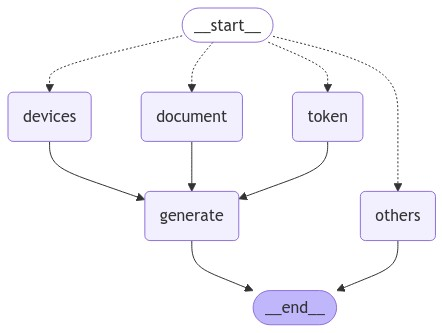
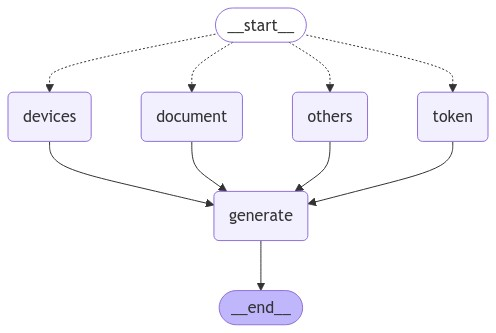
other node

diff --git a/app/ai/graph/nodes/generate.py b/app/ai/graph/nodes/generate.py
@@ -5,14 +5,14 @@ from langchain.prompts import (ChatPromptTemplate,
 from langchain.schema import SystemMessage
 from langchain_core.output_parsers import StrOutputParser
 
-from app.config import CUSTOM_PROMPT_TEMPLATE
+from app.config import CUSTOM_PROMPT
 from ..state import GraphState
 from ...llms import build_llm
 from ...memories import build_memory
 
 prompt = ChatPromptTemplate(
     messages=[
-        SystemMessage(content=CUSTOM_PROMPT_TEMPLATE),
+        SystemMessage(content=CUSTOM_PROMPT),
         MessagesPlaceholder(variable_name="context"),
         HumanMessagePromptTemplate.from_template("{question}")
     ]
@@ -22,9 +22,13 @@ def generate_output_node(state: GraphState) -> Dict[str, Any]:
 
     question = state["question"]
     documents = state["documents"]
+    if len(documents) > 0:
+        context = documents
+    else:
+        context = state["documents_json"]
 
     llm = build_llm(state, True)
     memory = build_memory(state)
-    generation_chain = prompt | llm | StrOutputParser()
-    generation = generation_chain.invoke({"context": documents, "question": question})
-    return {"documents": documents, "question": question, "generation": generation}
+    chain = prompt | llm | StrOutputParser()
+    answer = chain.invoke({"context": context, "question": question})
+    return {"question": question, "answer": answer}

diff --git a/app/ai/graph/nodes/document_node.py b/app/ai/graph/nodes/document_node.py
@@ -1,14 +1,28 @@
 from typing import Any, Dict
 
+from langchain_core.messages import SystemMessage
+from langchain_core.prompts import PromptTemplate, ChatPromptTemplate, MessagesPlaceholder, HumanMessagePromptTemplate
+
+from app.config import CUSTOM_PROMPT
 from app.data.vector import build_retriever
 from ..state import GraphState
+from ...chains import StreamingConversationalRetrievalChain
+from ...llms import build_llm, build_condense_llm
+from ...memories import build_memory
 
-
+prompt = ChatPromptTemplate(
+    messages=[
+        SystemMessage(content=CUSTOM_PROMPT),
+        MessagesPlaceholder(variable_name="chat_history"),
+        MessagesPlaceholder(variable_name="context"),
+        HumanMessagePromptTemplate.from_template("{question}")
+    ]
+)
 def retrieve_document_node(state: GraphState) -> Dict[str, Any]:
     """
     Vector retriever node
     """
-    query = state["question"]
+    question = state["question"]
     retriever = build_retriever()
-    documents = retriever.get_relevant_documents(query)
-    return {"documents": documents, "question": query}
+    documents = retriever.invoke(question)
+    return {"documents": documents}

diff --git a/app/services/conversation.py b/app/services/conversation.py
@@ -14,7 +14,7 @@ messageRepo = ConversationMessageRepo()
 
 def get_messages_by_conversation_id(
     conversation_id: uuid,
-) -> AIMessage | HumanMessage | SystemMessage:
+) -> [AIMessage | HumanMessage | SystemMessage]:
     """
     Finds all messages that belong to the given conversation_id
 
@@ -27,11 +27,11 @@ def get_messages_by_conversation_id(
 
 def get_messages_by_transaction_id(
     txn_id: uuid,
-) -> AIMessage | HumanMessage | SystemMessage:
+) -> [AIMessage | HumanMessage | SystemMessage]:
     """
     Finds all messages that belong to the given transaction_id
 
-    :param transaction_id: The id of the transaction
+    :param txn_id: The id of the transaction
 
     :return: A list of messages
     """
@@ -48,6 +48,7 @@ def add_message_to_conversation(
     :param conversation_id: The id of the conversation
     :param role: The role of the message
     :param content: The content of the message
+    :param transaction_id: The id of the transaction
 
     :return: void
     """

diff --git a/app/ai/graph/nodes/others.py b/app/ai/graph/nodes/others.py
@@ -1,9 +1,24 @@
 
 from typing import Any, Dict
+from langchain_core.messages import SystemMessage
+from langchain_core.prompts import PromptTemplate, ChatPromptTemplate, MessagesPlaceholder, HumanMessagePromptTemplate
+
+from app.config import CUSTOM_PROMPT
+from app.data.vector import build_retriever
 
 from ..state import GraphState
+from ...chains import StreamingConversationalRetrievalChain
+from ...llms import build_llm
+from ...memories import build_memory
 
+prompt = ChatPromptTemplate(
+    messages=[
+        SystemMessage(content=CUSTOM_PROMPT),
+        MessagesPlaceholder(variable_name="chat_history"),
+        MessagesPlaceholder(variable_name="context"),
+        HumanMessagePromptTemplate.from_template("{question}")
+    ]
+)
 
 def other_node(state: GraphState) -> Dict[str, Any]:
-    query = state["question"]
-    return {"documents": [], "question": query}
+    return {"documents": [], "documents_json": ""}

diff --git a/app/ai/graph/nodes/token_node.py b/app/ai/graph/nodes/token_node.py
@@ -1,6 +1,6 @@
 
 import logging
-import uuid
+import json
 from typing import Any, Dict, List
 
 from app.models.token import TotalTokenUsage
@@ -11,7 +11,6 @@ from ..state import GraphState
 
 def token_usage_node(state: GraphState) -> Dict[str, Any]:
     user_id = state["user_id"]
-    query = state["question"]
     logging.info("token_usage_query: User with id %s", user_id)
     documents: List[TotalTokenUsage] = []
     for token in get_user_message_token_usage(user_id):
@@ -22,4 +21,5 @@ def token_usage_node(state: GraphState) -> Dict[str, Any]:
             created_on=token.created_on, user=TokenUser(**token.user.__dict__),
             messages=token.messages
         ))
-    return {"documents": documents, "question": query}
+    document_json = json.dumps(documents)
+    return {"documents_json": document_json}

diff --git a/app/ai/graph/state.py b/app/ai/graph/state.py
@@ -10,13 +10,15 @@ class GraphState(TypedDict):
         user_id: user id
         conversation_id: conversation id
         transaction_id: transaction id
-        question: question
-        generation: LLM generation
+        question: question from user
+        answer: LLM generated answer
         documents: list of documents
+        documents_json: document in json format
     """
     user_id: UUID
     conversation_id: UUID
     transaction_id: UUID
     question: str
-    generation: str
+    answer: str
     documents: List[str]
+    documents_json: str

diff --git a/app/ai/graph/graph.py b/app/ai/graph/graph.py
@@ -47,7 +47,7 @@ workflow.set_conditional_entry_point(
 workflow.add_edge(DOCUMENT, GENERATE)
 workflow.add_edge(TOKEN, GENERATE)
 workflow.add_edge(DEVICES, GENERATE)
+workflow.add_edge(OTHERS, GENERATE)
 workflow.add_edge(GENERATE, END)
-workflow.add_edge(OTHERS, END)
 app = workflow.compile()
 app.get_graph().draw_mermaid_png(output_file_path="graph.png")

diff --git a/app/ai/graph/nodes/device_node.py b/app/ai/graph/nodes/device_node.py
@@ -13,4 +13,4 @@ def user_devices_node(state: GraphState) -> Dict[str, Any]:
     logging.debug("devices_node: User with id %s", user_id)
     device_dicts = [device.to_dict() for device in get_user_devices(user_id)]
     documents = json.dumps(device_dicts)
-    return {"documents": documents, "question": query}
+    return {"documents_json": documents}

diff --git a/app/ai/memories/build.py b/app/ai/memories/build.py
@@ -25,7 +25,7 @@ def build_memory(state: GraphState):
         ),
         return_messages=True,
         memory_key="chat_history",
-        output_key="output"
+        output_key="answer"
     )
 
 def build_window_memory(state: GraphState):
